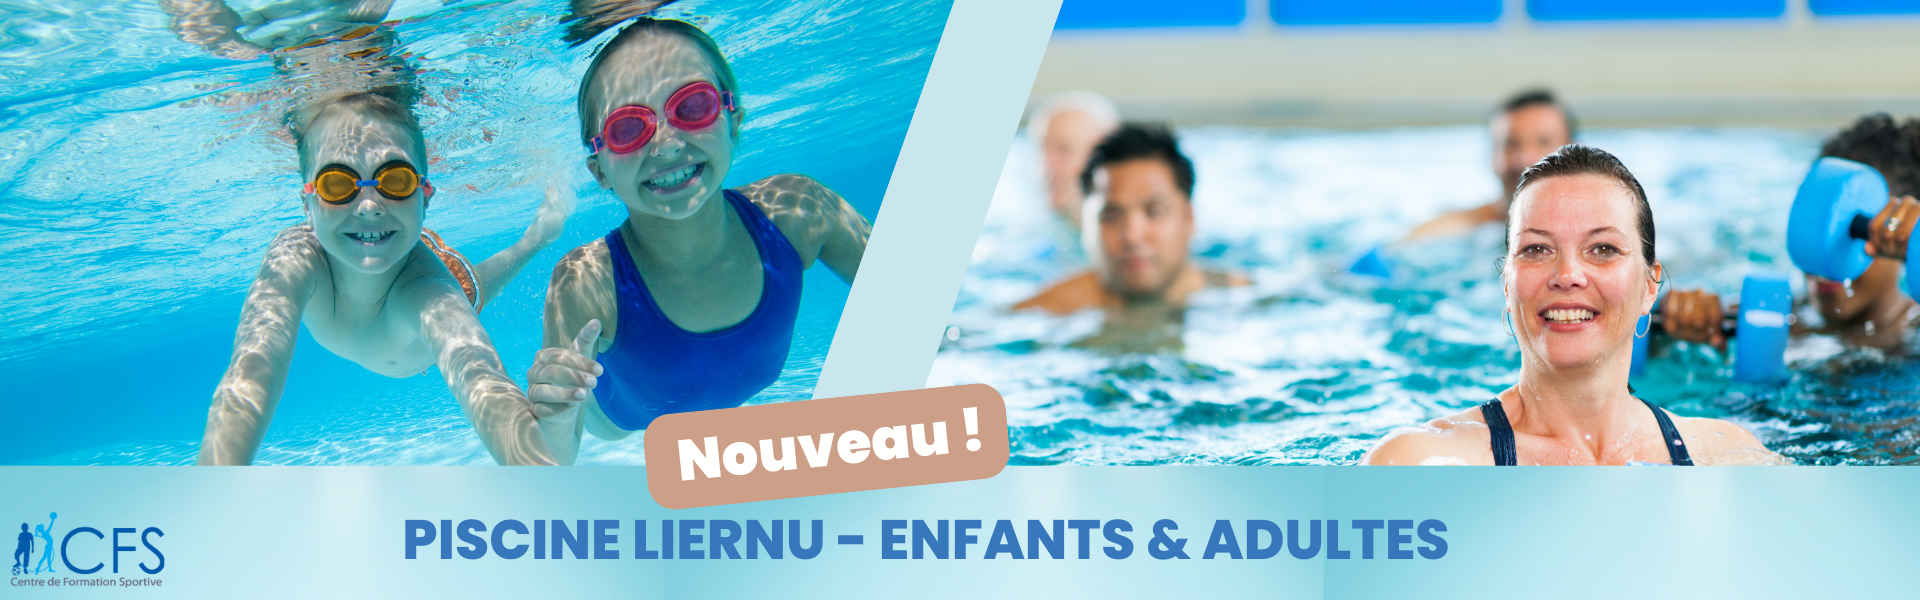
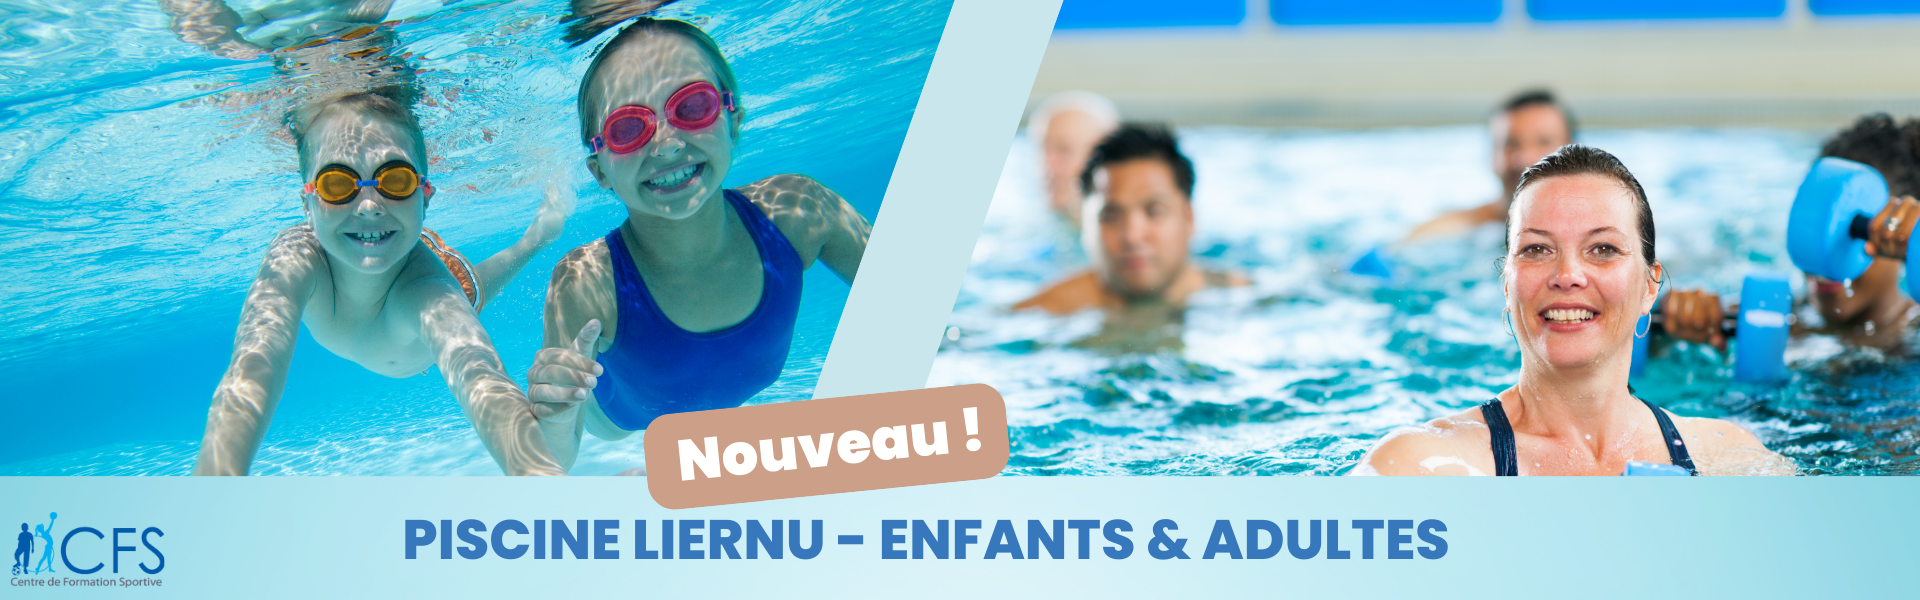
Update from Forestry.io anne-sophie@lecfs.be created assets/images/liernu.png anne-sophie@lecfs.be updated news/_drafts/nouvelle-piscine-a-liernu.md

Changed region(s): [[0.5312, 0.75, 1.0, 1.0], [0.0, 0.75, 0.5, 1.0]]

diff --git a/news/_drafts/nouvelle-piscine-a-liernu.md b/news/_drafts/nouvelle-piscine-a-liernu.md
@@ -12,7 +12,7 @@ infos:
   date: 
   teaser: ''
 description: 'Nouvelle piscine à Liernu ! '
-image: ''
+image: "/assets/images/nouveau-1200-x-630-px.png"
 
 ---
 ## Nouvelle piscine à Liernu !
